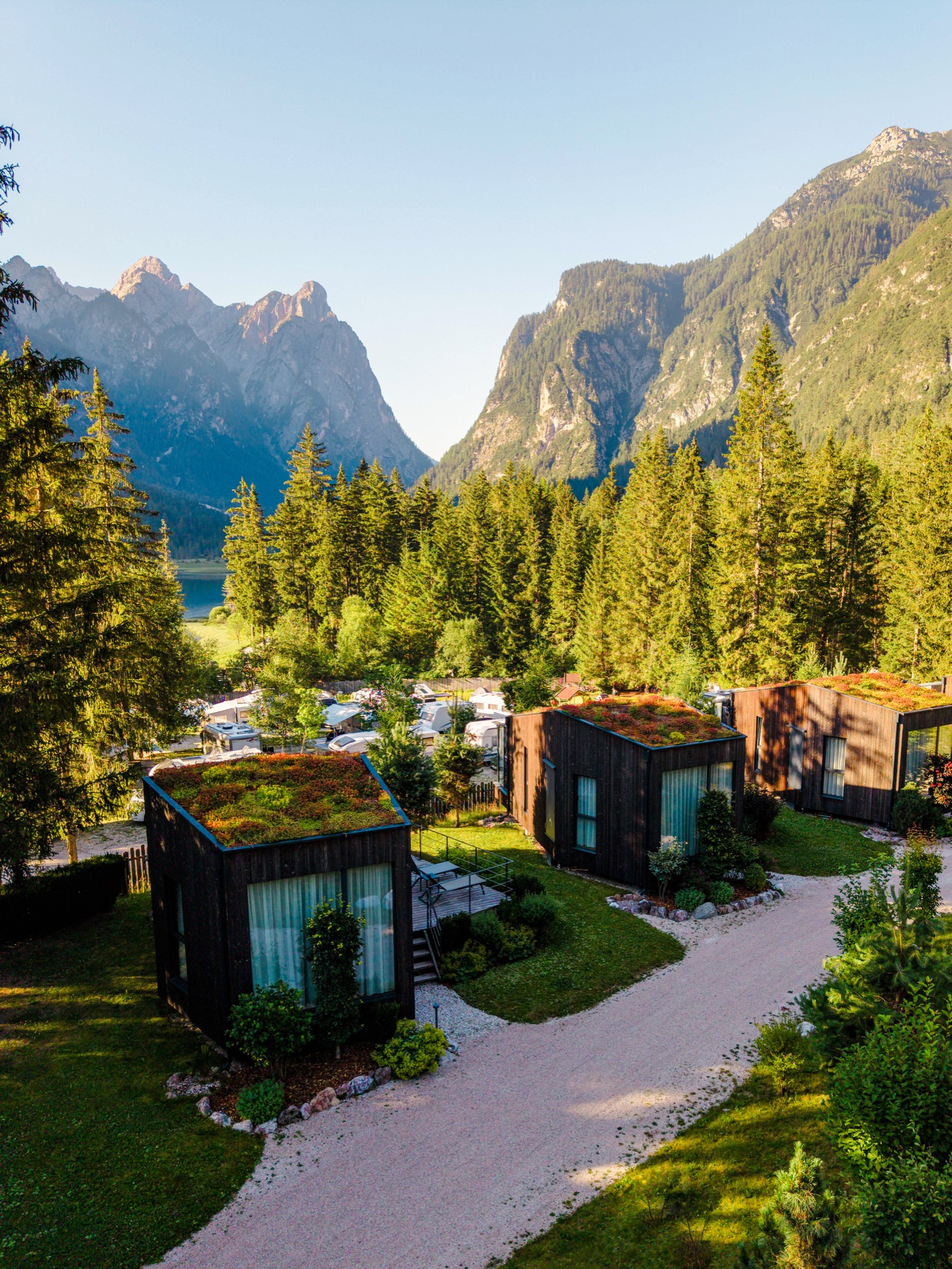
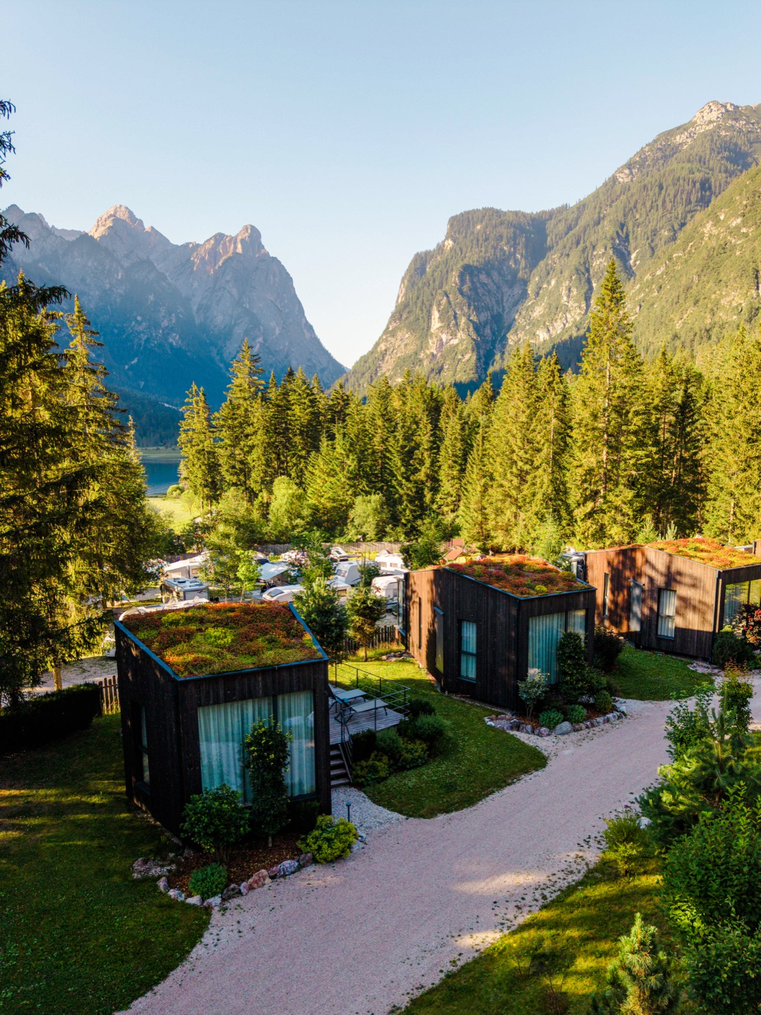
Fotostapels uitgebreid: Kaiserblick, Skyview, FPNS en Camping Olympia
Kaiserblick: A-27 als eerste foto toegevoegd, dining vervangen door A-28,
plus A-8, A-4 en A-21 erbij → 9 foto's

Skyview: interieur naar plek 2, ts_drone-2 en ts_drone-3 toegevoegd → 7 foto's

Ferienparadies Natterer See: FPNS-17 als tweede foto → 6 foto's

Camping Olympia: grounds-17 en grounds-4 vooraan toegevoegd,
aerial vervangen door drone-31 → 7 foto's

diff --git a/index.html b/index.html
@@ -149,38 +149,53 @@
       <!-- Fotostapel -->
       <div class="proj-stack-wrap">
         <div class="photo-stack" data-stack>
-          <!-- kaart 1 — achterste -->
-          <div class="photo-card" data-card data-tx="-24" data-ty="15"
-               style="--rot:-5.5deg; --tx:-24px; --ty:15px; --zi:1">
+          <div class="photo-card" data-card data-tx="-26" data-ty="17"
+               style="--rot:-6deg; --tx:-26px; --ty:17px; --zi:1">
+            <img src="assets/img/kaiserblick-a27.jpg" width="1068" height="1600"
+                 loading="lazy" decoding="async" alt="Das Kaiserblick">
+          </div>
+          <div class="photo-card" data-card data-tx="20" data-ty="12"
+               style="--rot:4.5deg; --tx:20px; --ty:12px; --zi:2">
             <img src="assets/img/kaiserblick-a25.jpg" width="1068" height="1600"
                  loading="lazy" decoding="async" alt="Das Kaiserblick">
           </div>
-          <!-- kaart 2 -->
-          <div class="photo-card" data-card data-tx="17" data-ty="7"
-               style="--rot:4deg; --tx:17px; --ty:7px; --zi:2">
+          <div class="photo-card" data-card data-tx="-17" data-ty="9"
+               style="--rot:-3.8deg; --tx:-17px; --ty:9px; --zi:3">
             <img src="assets/img/kaiserblick-a20.jpg" width="1068" height="1600"
                  loading="lazy" decoding="async" alt="Das Kaiserblick">
           </div>
-          <!-- kaart 3 -->
-          <div class="photo-card" data-card data-tx="-13" data-ty="7"
-               style="--rot:-3.2deg; --tx:-13px; --ty:7px; --zi:3">
+          <div class="photo-card" data-card data-tx="13" data-ty="5"
+               style="--rot:3deg; --tx:13px; --ty:5px; --zi:4">
             <img src="assets/img/kaiserblick-a7.jpg" width="1068" height="1600"
                  loading="lazy" decoding="async" alt="Das Kaiserblick">
           </div>
-          <!-- kaart 4 -->
-          <div class="photo-card" data-card data-tx="9" data-ty="-4"
-               style="--rot:2.3deg; --tx:9px; --ty:-4px; --zi:4">
-            <img src="assets/img/kaiserblick-dining.webp" width="1100" height="1650"
-                 loading="lazy" decoding="async" alt="Das Kaiserblick restaurant">
+          <div class="photo-card" data-card data-tx="-9" data-ty="3"
+               style="--rot:-2.2deg; --tx:-9px; --ty:3px; --zi:5">
+            <img src="assets/img/kaiserblick-a28.jpg" width="1068" height="1600"
+                 loading="lazy" decoding="async" alt="Das Kaiserblick">
           </div>
-          <!-- kaart 5 — voorste -->
-          <div class="photo-card" data-card data-tx="-2" data-ty="0"
-               style="--rot:-0.8deg; --tx:-2px; --ty:0; --zi:5">
+          <div class="photo-card" data-card data-tx="7" data-ty="-2"
+               style="--rot:1.6deg; --tx:7px; --ty:-2px; --zi:6">
             <img src="assets/img/kaiserblick-terrace.webp" width="1100" height="1650"
                  loading="lazy" decoding="async" alt="Das Kaiserblick terras bij zonsondergang">
           </div>
+          <div class="photo-card" data-card data-tx="-4" data-ty="1"
+               style="--rot:-1deg; --tx:-4px; --ty:1px; --zi:7">
+            <img src="assets/img/kaiserblick-a8.jpg" width="1068" height="1600"
+                 loading="lazy" decoding="async" alt="Das Kaiserblick">
+          </div>
+          <div class="photo-card" data-card data-tx="2" data-ty="-1"
+               style="--rot:0.5deg; --tx:2px; --ty:-1px; --zi:8">
+            <img src="assets/img/kaiserblick-a4.jpg" width="1068" height="1600"
+                 loading="lazy" decoding="async" alt="Das Kaiserblick">
+          </div>
+          <div class="photo-card" data-card data-tx="-1" data-ty="0"
+               style="--rot:-0.2deg; --tx:-1px; --ty:0; --zi:9">
+            <img src="assets/img/kaiserblick-a21.jpg" width="1068" height="1600"
+                 loading="lazy" decoding="async" alt="Das Kaiserblick">
+          </div>
         </div>
-        <p class="stack-hint" aria-hidden="true">5 foto's — hover om te verkennen</p>
+        <p class="stack-hint" aria-hidden="true">9 foto's — hover om te verkennen</p>
       </div>
     </div>
 
@@ -227,33 +242,43 @@
       <!-- Fotostapel -->
       <div class="proj-stack-wrap">
         <div class="photo-stack" data-stack>
-          <div class="photo-card" data-card data-tx="22" data-ty="13"
-               style="--rot:5deg; --tx:22px; --ty:13px; --zi:1">
+          <div class="photo-card" data-card data-tx="22" data-ty="14"
+               style="--rot:5deg; --tx:22px; --ty:14px; --zi:1">
             <img src="assets/img/skyview-a22.jpg" width="1068" height="1600"
                  loading="lazy" decoding="async" alt="Skyview Chalet exterieur">
           </div>
-          <div class="photo-card" data-card data-tx="-16" data-ty="8"
-               style="--rot:-3.8deg; --tx:-16px; --ty:8px; --zi:2">
-            <img src="assets/img/skyview-a9.jpg" width="1068" height="1600"
-                 loading="lazy" decoding="async" alt="Skyview Chalet sfeer">
-          </div>
-          <div class="photo-card" data-card data-tx="11" data-ty="4"
-               style="--rot:2.5deg; --tx:11px; --ty:4px; --zi:3">
-            <img src="assets/img/skyview-a7.jpg" width="1068" height="1600"
-                 loading="lazy" decoding="async" alt="Skyview Chalet detail">
-          </div>
-          <div class="photo-card" data-card data-tx="-8" data-ty="-3"
-               style="--rot:-1.8deg; --tx:-8px; --ty:-3px; --zi:4">
+          <div class="photo-card" data-card data-tx="-16" data-ty="9"
+               style="--rot:-4deg; --tx:-16px; --ty:9px; --zi:2">
             <img src="assets/img/skyview-interior.jpg" width="1069" height="1600"
                  loading="lazy" decoding="async" alt="Skyview Chalet interieur">
           </div>
-          <div class="photo-card" data-card data-tx="1" data-ty="0"
-               style="--rot:0.6deg; --tx:1px; --ty:0; --zi:5">
+          <div class="photo-card" data-card data-tx="12" data-ty="6"
+               style="--rot:2.8deg; --tx:12px; --ty:6px; --zi:3">
+            <img src="assets/img/skyview-a9.jpg" width="1068" height="1600"
+                 loading="lazy" decoding="async" alt="Skyview Chalet sfeer">
+          </div>
+          <div class="photo-card" data-card data-tx="-9" data-ty="3"
+               style="--rot:-2deg; --tx:-9px; --ty:3px; --zi:4">
+            <img src="assets/img/skyview-a7.jpg" width="1068" height="1600"
+                 loading="lazy" decoding="async" alt="Skyview Chalet detail">
+          </div>
+          <div class="photo-card" data-card data-tx="6" data-ty="-2"
+               style="--rot:1.4deg; --tx:6px; --ty:-2px; --zi:5">
             <img src="assets/img/skyview-a18.jpg" width="1067" height="1600"
                  loading="lazy" decoding="async" alt="Skyview Chalet exterieur">
           </div>
+          <div class="photo-card" data-card data-tx="-3" data-ty="1"
+               style="--rot:-0.7deg; --tx:-3px; --ty:1px; --zi:6">
+            <img src="assets/img/skyview-drone-2.jpg" width="1200" height="1600"
+                 loading="lazy" decoding="async" alt="Skyview Chalet drone">
+          </div>
+          <div class="photo-card" data-card data-tx="1" data-ty="0"
+               style="--rot:0.3deg; --tx:1px; --ty:0; --zi:7">
+            <img src="assets/img/skyview-drone-3.jpg" width="1200" height="1600"
+                 loading="lazy" decoding="async" alt="Skyview Chalet drone luchtopname">
+          </div>
         </div>
-        <p class="stack-hint" aria-hidden="true">5 foto's — hover om te verkennen</p>
+        <p class="stack-hint" aria-hidden="true">7 foto's — hover om te verkennen</p>
       </div>
     </div>
 
@@ -300,33 +325,38 @@
       <!-- Fotostapel -->
       <div class="proj-stack-wrap">
         <div class="photo-stack" data-stack>
-          <div class="photo-card" data-card data-tx="-20" data-ty="16"
-               style="--rot:-4.8deg; --tx:-20px; --ty:16px; --zi:1">
+          <div class="photo-card" data-card data-tx="-22" data-ty="15"
+               style="--rot:-5.2deg; --tx:-22px; --ty:15px; --zi:1">
             <img src="assets/img/fpns-a11.jpg" width="900" height="1600"
                  loading="lazy" decoding="async" alt="Natterer See">
           </div>
-          <div class="photo-card" data-card data-tx="15" data-ty="9"
-               style="--rot:3.5deg; --tx:15px; --ty:9px; --zi:2">
+          <div class="photo-card" data-card data-tx="17" data-ty="9"
+               style="--rot:4deg; --tx:17px; --ty:9px; --zi:2">
+            <img src="assets/img/fpns-a17.jpg" width="900" height="1600"
+                 loading="lazy" decoding="async" alt="Natterer See sfeer">
+          </div>
+          <div class="photo-card" data-card data-tx="-12" data-ty="6"
+               style="--rot:-3deg; --tx:-12px; --ty:6px; --zi:3">
             <img src="assets/img/fpns-a3.jpg" width="900" height="1600"
                  loading="lazy" decoding="async" alt="Natterer See omgeving">
           </div>
-          <div class="photo-card" data-card data-tx="-10" data-ty="5"
-               style="--rot:-2.4deg; --tx:-10px; --ty:5px; --zi:3">
+          <div class="photo-card" data-card data-tx="9" data-ty="-3"
+               style="--rot:2.2deg; --tx:9px; --ty:-3px; --zi:4">
             <img src="assets/img/fpns-a2.jpg" width="900" height="1600"
                  loading="lazy" decoding="async" alt="Natterer See sfeer">
           </div>
-          <div class="photo-card" data-card data-tx="8" data-ty="-3"
-               style="--rot:1.9deg; --tx:8px; --ty:-3px; --zi:4">
+          <div class="photo-card" data-card data-tx="-4" data-ty="1"
+               style="--rot:-1.2deg; --tx:-4px; --ty:1px; --zi:5">
             <img src="assets/img/natterersee-lodges.webp" width="1080" height="1620"
                  loading="lazy" decoding="async" alt="Lodges Natterer See">
           </div>
-          <div class="photo-card" data-card data-tx="-1" data-ty="0"
-               style="--rot:-0.6deg; --tx:-1px; --ty:0; --zi:5">
+          <div class="photo-card" data-card data-tx="2" data-ty="0"
+               style="--rot:0.5deg; --tx:2px; --ty:0; --zi:6">
             <img src="assets/img/natterersee-koi.webp" width="1080" height="1620"
                  loading="lazy" decoding="async" alt="Koi lodge Natterer See">
           </div>
         </div>
-        <p class="stack-hint" aria-hidden="true">5 foto's — hover om te verkennen</p>
+        <p class="stack-hint" aria-hidden="true">6 foto's — hover om te verkennen</p>
       </div>
     </div>
 
@@ -373,33 +403,43 @@
       <!-- Fotostapel -->
       <div class="proj-stack-wrap">
         <div class="photo-stack" data-stack>
-          <div class="photo-card" data-card data-tx="20" data-ty="14"
-               style="--rot:4.5deg; --tx:20px; --ty:14px; --zi:1">
-            <img src="assets/img/olympia-grounds.jpg" width="1600" height="1067"
+          <div class="photo-card" data-card data-tx="-24" data-ty="16"
+               style="--rot:-5.5deg; --tx:-24px; --ty:16px; --zi:1">
+            <img src="assets/img/olympia-grounds17.jpg" width="1068" height="1600"
                  loading="lazy" decoding="async" alt="Camping Olympia terrein">
           </div>
-          <div class="photo-card" data-card data-tx="-18" data-ty="9"
-               style="--rot:-4deg; --tx:-18px; --ty:9px; --zi:2">
+          <div class="photo-card" data-card data-tx="18" data-ty="11"
+               style="--rot:4.2deg; --tx:18px; --ty:11px; --zi:2">
+            <img src="assets/img/olympia-grounds4.jpg" width="1068" height="1600"
+                 loading="lazy" decoding="async" alt="Camping Olympia terrein">
+          </div>
+          <div class="photo-card" data-card data-tx="-14" data-ty="8"
+               style="--rot:-3.2deg; --tx:-14px; --ty:8px; --zi:3">
+            <img src="assets/img/olympia-grounds.jpg" width="1600" height="1067"
+                 loading="lazy" decoding="async" alt="Camping Olympia terrein overzicht">
+          </div>
+          <div class="photo-card" data-card data-tx="10" data-ty="4"
+               style="--rot:2.4deg; --tx:10px; --ty:4px; --zi:4">
             <img src="assets/img/olympia-a9.jpg" width="1068" height="1600"
                  loading="lazy" decoding="async" alt="Camping Olympia sfeer">
           </div>
-          <div class="photo-card" data-card data-tx="12" data-ty="5"
-               style="--rot:2.7deg; --tx:12px; --ty:5px; --zi:3">
+          <div class="photo-card" data-card data-tx="-7" data-ty="2"
+               style="--rot:-1.6deg; --tx:-7px; --ty:2px; --zi:5">
             <img src="assets/img/olympia-a4.jpg" width="1068" height="1600"
                  loading="lazy" decoding="async" alt="Camping Olympia details">
           </div>
-          <div class="photo-card" data-card data-tx="-7" data-ty="-2"
-               style="--rot:-1.5deg; --tx:-7px; --ty:-2px; --zi:4">
+          <div class="photo-card" data-card data-tx="4" data-ty="-1"
+               style="--rot:1deg; --tx:4px; --ty:-1px; --zi:6">
             <img src="assets/img/olympia-wellness.jpg" width="1068" height="1600"
                  loading="lazy" decoding="async" alt="Camping Olympia wellness">
           </div>
-          <div class="photo-card" data-card data-tx="1" data-ty="0"
-               style="--rot:0.4deg; --tx:1px; --ty:0; --zi:5">
-            <img src="assets/img/olympia-aerial.webp" width="720" height="1080"
+          <div class="photo-card" data-card data-tx="-1" data-ty="0"
+               style="--rot:-0.3deg; --tx:-1px; --ty:0; --zi:7">
+            <img src="assets/img/olympia-drone31.jpg" width="1200" height="1600"
                  loading="lazy" decoding="async" alt="Luchtopname Camping Olympia resort">
           </div>
         </div>
-        <p class="stack-hint" aria-hidden="true">5 foto's — hover om te verkennen</p>
+        <p class="stack-hint" aria-hidden="true">7 foto's — hover om te verkennen</p>
       </div>
     </div>
 
